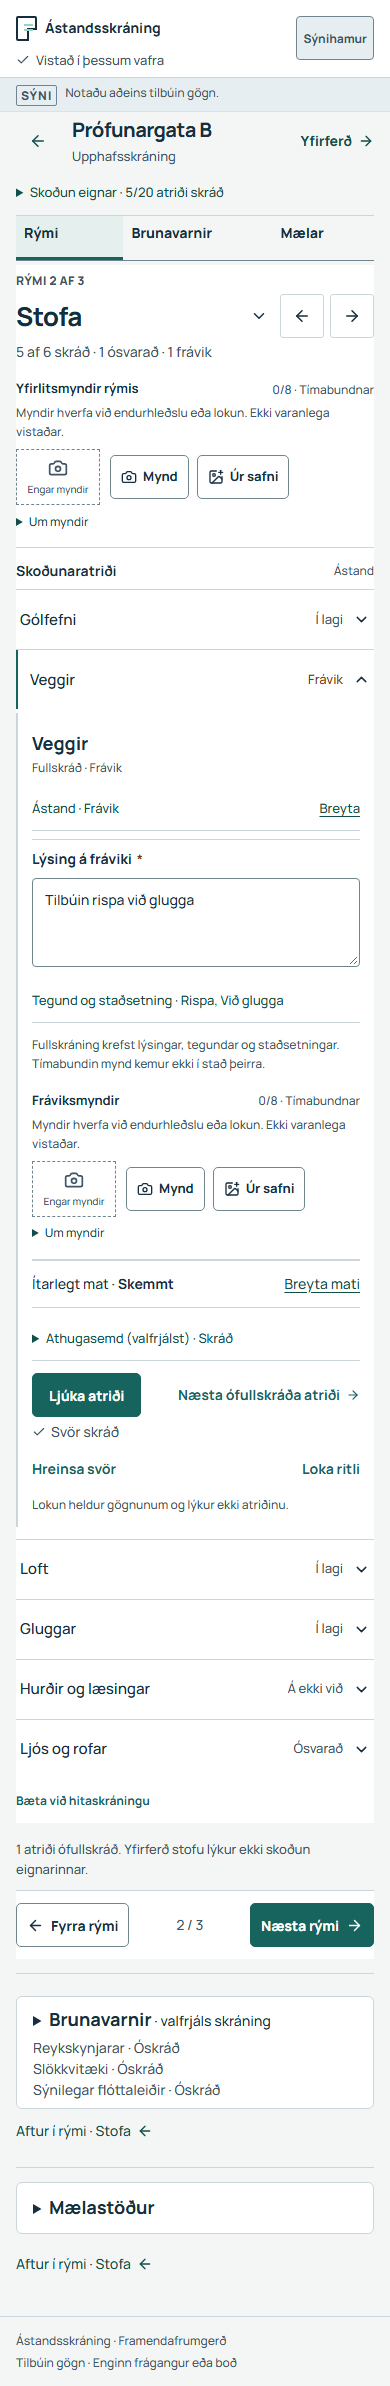
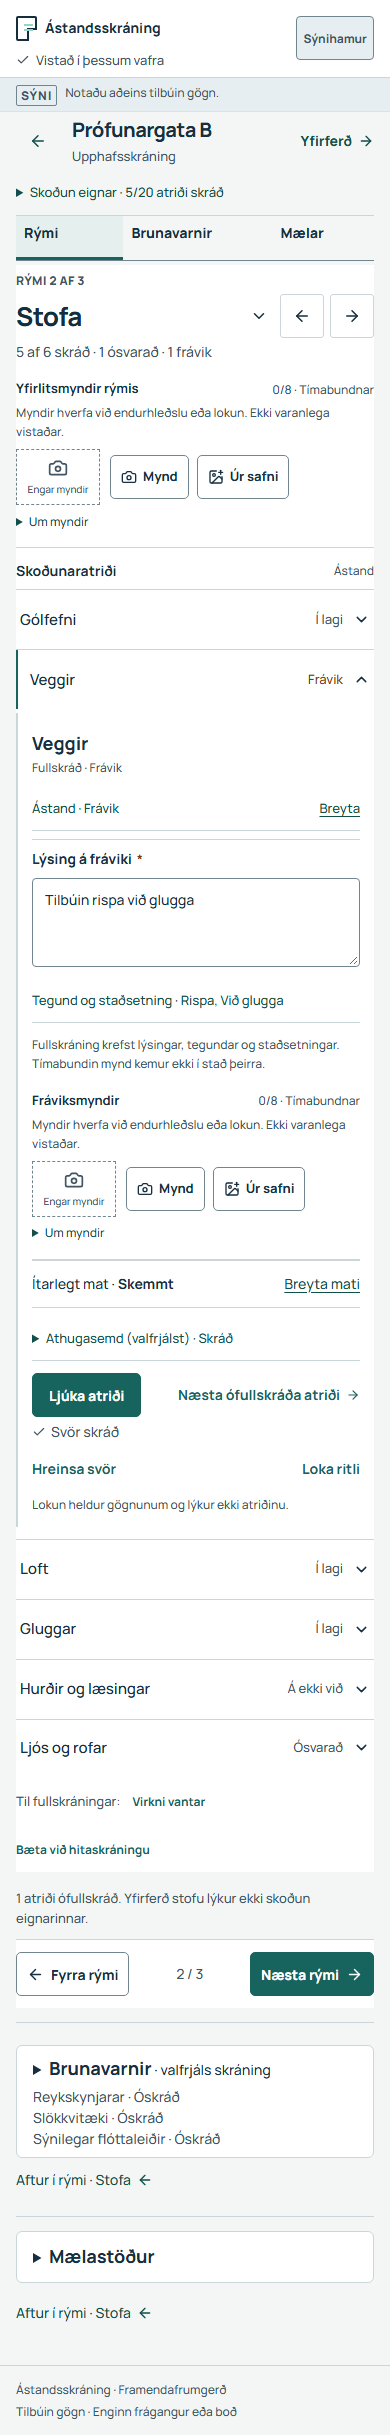
UX4-D1: clarify missing assessments and retained defect prose

diff --git a/tests/ux4-d1-stofa.spec.ts b/tests/ux4-d1-stofa.spec.ts
@@ -53,13 +53,27 @@ test("unanswered stays neutral; a good condition never infers functionality or c
   expected.reports[0].updatedAt = after.reports[0].updatedAt;
   expect(after).toEqual(expected);
   await expect(row(page, "windows").getByRole("button", { name: "Ljúka atriði", exact: true })).toBeDisabled();
-  await row(page, "windows").getByText("Breyta mati", { exact: true }).click();
+  await row(page, "windows").getByRole("button", { name: "Loka ritli", exact: true }).click();
+  await expect(row(page, "windows").locator(".checklist-toggle")).toHaveAttribute("aria-expanded", "false");
+  const missing = row(page, "windows").getByRole("group", { name: "Ósvarað ítarlegt mat", exact: true });
+  await expect(missing.getByRole("button", { name: "Virkni vantar", exact: true })).toBeVisible();
+  await expect(missing.getByRole("button", { name: "Þrif vantar", exact: true })).toBeVisible();
+  await missing.getByRole("button", { name: "Virkni vantar", exact: true }).focus();
+  await page.keyboard.press("Enter");
+  await expect(row(page, "windows").locator('[data-question="functionality"]')).toBeFocused();
+  expect(JSON.parse(await raw(page))).toEqual(after);
   await expect(row(page, "windows").getByRole("radio", { name: "Virkar", exact: true })).not.toBeChecked();
   await expect(row(page, "windows").getByRole("radio", { name: "Hreint", exact: true })).not.toBeChecked();
   await row(page, "windows").getByRole("radio", { name: "Virkar", exact: true }).check();
+  await expect(missing.getByRole("button", { name: "Virkni vantar", exact: true })).toHaveCount(0);
+  const withFunctionality = await raw(page);
+  await missing.getByRole("button", { name: "Þrif vantar", exact: true }).click();
+  await expect(row(page, "windows").locator('[data-question="cleanliness"]')).toBeFocused();
+  expect(await raw(page)).toBe(withFunctionality);
   await row(page, "windows").getByRole("radio", { name: "Hreint", exact: true }).check();
   await row(page, "windows").getByRole("button", { name: "Ljúka atriði", exact: true }).click();
   await expect(row(page, "windows").locator(".checklist-toggle")).toBeFocused();
+  await expect(missing).toHaveCount(0);
   await page.reload();
   const saved = JSON.parse(await raw(page)).reports[0].rooms[1].observations.windows;
   expect(saved).toEqual({ ...EMPTY_OBSERVATION, condition: "good", functionality: "works", cleanliness: "clean" });
@@ -147,6 +161,17 @@ test("changing a legacy defect requires confirmation and retains all supporting 
   await expect(row(page, "walls").getByText("Varðveitt frávikslýsing", { exact: true }).last()).toBeVisible();
   await row(page, "walls").getByRole("button", { name: "Afturkalla breytingu", exact: true }).click();
   expect(JSON.parse(await raw(page)).reports[0].rooms[1].observations.walls.condition).toBe("damaged");
+  await row(page, "walls").getByRole("radio", { name: "Í lagi", exact: true }).click();
+  await dialog.getByRole("button", { name: "Staðfesta breytingu", exact: true }).click();
+  const retained = await raw(page);
+  await row(page, "walls").getByRole("button", { name: "Loka ritli", exact: true }).click();
+  await expect(row(page, "walls").locator(".checklist-toggle")).toContainText("Varðveitt frávikslýsing");
+  await expect(row(page, "walls").locator(".checklist-toggle")).toHaveAttribute("aria-expanded", "false");
+  await page.getByRole("combobox", { name: "Velja rými", exact: true }).selectOption("checklist-entry");
+  await page.getByRole("combobox", { name: "Velja rými", exact: true }).selectOption("checklist-living");
+  await page.reload();
+  await expect(row(page, "walls").locator(".checklist-toggle")).toContainText("Varðveitt frávikslýsing");
+  expect(await raw(page)).toBe(retained);
 });
 
 test("failed persistence keeps the active editor and draft; retry persists without data loss", async ({ page }) => {
@@ -291,4 +316,33 @@ test("a fully recorded last-room Stofa leads to review without completing the pr
   await expect(page.getByRole("heading", { name: "Yfirferð skráningar", exact: true })).toBeVisible();
   expect(await raw(page)).toBe(before);
   expect(JSON.parse(await raw(page)).reports[0].sampleReviewed).not.toBe(true);
+});
+
+test("targeted refinement: detailed-answer prompts respect required fields and N/A; retained legacy prose stays visible", async ({ page }) => {
+  const before = await seed(page, true, report => {
+    const observations = report.rooms[1].observations;
+    delete observations.floor.cleanliness;
+    delete observations.windows.functionality;
+    observations.walls.condition = "good";
+  });
+  for (const id of ["ceiling", "doors", "walls"]) {
+    await expect(row(page, id).getByRole("group", { name: "Ósvarað ítarlegt mat", exact: true })).toHaveCount(0);
+  }
+  await expect(row(page, "floor").getByRole("button", { name: "Þrif vantar", exact: true })).toBeVisible();
+  await expect(row(page, "floor").getByRole("button", { name: "Virkni vantar", exact: true })).toHaveCount(0);
+  await expect(row(page, "windows").getByRole("button", { name: "Virkni vantar", exact: true })).toBeVisible();
+  await expect(row(page, "windows").getByRole("button", { name: "Þrif vantar", exact: true })).toHaveCount(0);
+  await expect(row(page, "walls").locator(".checklist-toggle")).toContainText("Varðveitt frávikslýsing");
+  await expect(row(page, "walls").locator(".checklist-toggle")).toHaveAttribute("aria-expanded", "false");
+  await row(page, "floor").getByRole("button", { name: "Þrif vantar", exact: true }).click();
+  await expect(row(page, "floor").locator('[data-question="cleanliness"]')).toBeFocused();
+  await expect(row(page, "floor").getByRole("radio", { checked: true, name: "Hreint", exact: true })).toHaveCount(0);
+  expect(await raw(page)).toBe(before);
+  expect(await page.evaluate(() => document.documentElement.scrollWidth <= innerWidth)).toBe(true);
+  const audit = await new AxeBuilder({ page }).include(".inspection-page").withTags(["wcag2a", "wcag2aa", "wcag21aa", "wcag22aa"]).analyze();
+  expect(audit.violations).toEqual([]);
+  if (page.viewportSize()!.width !== 320) {
+    await page.evaluate(() => window.scrollTo(0, 0));
+    await page.screenshot({ path: `docs/qa/ux4-d1/refinement-${page.viewportSize()!.width}.png`, fullPage: true });
+  }
 });

diff --git a/src/components/observation-editor.tsx b/src/components/observation-editor.tsx
@@ -9,7 +9,7 @@ import {
   TriangleAlert,
 } from "lucide-react";
 import { useEffect, useId, useRef, useState, type ReactNode } from "react";
-import { itemProgress, navigationTargetId, photoTargetId } from "@/lib/inspection-navigation";
+import { itemProgress, missingAnswers, navigationTargetId, photoTargetId } from "@/lib/inspection-navigation";
 import {
   CONDITIONS,
   FUNCTIONALITIES,
@@ -160,6 +160,9 @@ export function ObservationEditor({
   const deviation = damage || (o.condition !== "na" && o.cleanliness === "dirty");
   const simpleCondition = o.condition === "damaged" || o.condition === "defect" ? "Frávik" : o.condition ? is.conditions[o.condition] : "Ósvarað";
   const progress = itemProgress(item, o);
+  const missingDetailed = photoFirst ? missingAnswers(item, o).filter(
+    (answer): answer is { key: "functionality" | "cleanliness"; label: string } => answer.key === "functionality" || answer.key === "cleanliness",
+  ) : [];
   const status = progress === "unanswered" ? "Ósvarað" : !complete ? "Ófullskráð" : "Fullskráð";
   const flags = [
     deviation && "Frávik",
@@ -206,6 +209,11 @@ export function ObservationEditor({
     const group = panelRef.current?.querySelector<HTMLElement>(
       `[data-question="${focusRequest.question}"]`,
     );
+    if (photoFirst) {
+      group?.focus({ preventScroll: true });
+      group?.scrollIntoView({ block: "nearest" });
+      return;
+    }
     const target =
       group?.querySelector<HTMLInputElement>("input:checked") ??
       group?.querySelector<HTMLInputElement>(
@@ -214,7 +222,7 @@ export function ObservationEditor({
     target?.focus({ preventScroll: true });
     // Radios are visually hidden; scroll their group above the room footer.
     group?.scrollIntoView({ block: "nearest" });
-  }, [open, focusRequest]);
+  }, [open, focusRequest, photoFirst]);
   const chooseGood = () => {
     onActivate();
     change("condition", "good");
@@ -343,7 +351,9 @@ export function ObservationEditor({
               className={styles.rowStatus}
               data-attention={!!o.condition && (!complete || attention || deviation)}
             >
-              {photoFirst ? `${simpleCondition}${deviation && simpleCondition !== "Frávik" ? " · Frávik" : ""}${o.condition && !complete ? " · Ófullskráð" : complete && attention && o.condition !== "uninspected" ? " · Takmörkun" : ""}` : <>{o.condition ? `${is.conditions[o.condition]} · ` : ""}
+              {photoFirst ? <>{`${simpleCondition}${deviation && simpleCondition !== "Frávik" ? " · Frávik" : ""}${o.condition && !complete ? " · Ófullskráð" : complete && attention && o.condition !== "uninspected" ? " · Takmörkun" : ""}`}
+                {hasRetainedDefect(o) ? <span className={stofa.retainedIndicator}>Varðveitt frávikslýsing</span> : null}
+              </> : <>{o.condition ? `${is.conditions[o.condition]} · ` : ""}
               {status}{flags.length ? ` · ${flags.join(" · ")}` : ""}
               {state.photos[photoKey]?.length ? ` · ${state.photos[photoKey].length} ${state.photos[photoKey].length === 1 ? "mynd" : "myndir"}` : ""}
               {o.note.trim() ? " · Athugasemd" : ""}
@@ -368,6 +378,14 @@ export function ObservationEditor({
           <Plus size={16} aria-hidden="true" />
           Ástand í lagi
         </button>
+      </div> : null}
+      {missingDetailed.length ? <div className={stofa.missingAssessments} role="group" aria-label="Ósvarað ítarlegt mat">
+        <span>Til fullskráningar:</span>
+        {missingDetailed.map(answer => <button type="button" key={answer.key} className="text-button" aria-controls={panelId} onClick={() => {
+          setShowAssessment(true);
+          setFocusRequest({ question: answer.key });
+          onOpen();
+        }}>{answer.label}</button>)}
       </div> : null}
       </div>
       <div

diff --git a/src/components/stofa-inspection.module.css b/src/components/stofa-inspection.module.css
@@ -67,6 +67,9 @@
 .validationNote { margin: 0; font-size: 12px; }
 .notes { border-bottom: 1px solid var(--line); }
 .completion { color: var(--muted); font-size: 13px; margin-top: 16px; }
+.retainedIndicator { display: block; font-size: 12px; color: var(--muted); }
+.missingAssessments { grid-column: 1 / -1; display: flex; flex-wrap: wrap; align-items: center; gap: 0 12px; width: 100%; font-size: 13px; color: var(--muted); }
+.missingAssessments .text-button { min-height: 44px; font-size: 13px; text-decoration: underline; text-underline-offset: 3px; }
 .page[data-stofa-inspection] [data-inspection-sections] { position: static; min-height: 44px; }
 .page[data-stofa-inspection] [data-inspection-sections] a { min-height: 44px; padding-block: 6px; }
 .page[data-stofa-inspection] [data-inspection-sections] a span { display: none; }

diff --git a/docs/qa/ux4-d1/README.md b/docs/qa/ux4-d1/README.md
@@ -1,6 +1,6 @@
 # UX4-D1 visual and focused QA evidence
 
-Captured 4 November 2026 in Chromium. All records are synthetic. The `synthetic-wall-damage.png` fixture shown in the additional photo captures is illustrative test media, not evidence of an actual property.
+Baseline captured 4 November 2026 in Chromium; after captures refreshed 5 November for the targeted refinement. All records are synthetic. The `synthetic-wall-damage.png` fixture shown in the additional photo captures is illustrative test media, not evidence of an actual property.
 
 The before captures were taken from approved main `ad23255c48606721eefdda92e1c34aedf9030424` before application edits. Before/after pairs use the same synthetic report and open Veggir defect editor, with no photos. The after captures use the production build.
 
@@ -12,7 +12,17 @@ The before captures were taken from approved main `ad23255c48606721eefdda92e1c34
 
 Visually reviewed the 390/1440 layouts and the 320 px reflow. No horizontal overflow or clipped controls in the checked states. Temporary storage limits are visible beside both room and item media. Additional legacy fields and retained application navigation account for differences from the standalone design prototype.
 
-## Results
+The targeted refinement shows named missing-answer actions and a retained legacy defect indicator, with direct focus into the required detailed group: [390 px](refinement-390.png) · [1440 px](refinement-1440.png). These actions change presentation and focus only; they do not infer or save answers.
+
+## Targeted refinement results, 5 November 2026
+
+- **42 focused Stofa cases passed**, without retries, against the production build at 1440, 390 and 320 px. No broader regression suite was run for this refinement.
+- Required missing answers are named in collapsed rows, and keyboard/pointer actions reveal and focus the correct detailed group without altering the stored document or choosing answers. Prompts disappear when answered and respect existing N/A/required-field rules.
+- Retained legacy prose remains visibly indicated after confirmed changes, undo/reconfirmation, room navigation and reload; canonical data is preserved.
+- Existing Stofa BUG-01, failed-save retry, Web Locks, conflict and review-navigation cases passed. Axe found zero violations in the additional refinement views, with no horizontal overflow.
+- The production build (including TypeScript), scoped ESLint on the changed component/test and `git diff --check` passed. Existing validation and photo limitations are unchanged.
+
+## Initial implementation results, 4 November 2026
 
 - UX4-D1: **39 passed** across 1440, 390 and 320 px (13 focused cases at each width), including last-room navigation.
 - Existing shared-editor/navigation regression: **39 passed** (desktop), including all BUG-01 cases and the existing focused BUG-02 persistence scenario.

diff --git a/docs/UX4_D1_STOFA.md b/docs/UX4_D1_STOFA.md
@@ -11,6 +11,8 @@ Only rooms with the existing `living` (Stofa) type receive the new interface. Ot
 - Room overview photos appear before the checklist. Camera and gallery have separate labelled controls; item photos retain the existing report/room/item associations, limits, validation, enlargement and removal confirmation.
 - The simple choices are Í lagi / Frávik / Á ekki við / Ekki skoðað. No answer is preselected. Choosing Í lagi changes **condition only**.
 - Existing six-value condition, functionality and cleanliness assessments remain editable in **Ítarlegt mat**. Legacy `damaged` and `wear` values are retained. Review correction links reveal a required detailed answer and restore review context.
+- Missing required functionality/cleanliness answers are named in the Stofa row, even while collapsed. **Virkni vantar** / **Þrif vantar** open and focus the corresponding detailed answer group without selecting or writing an answer. These prompts follow existing validation, including the N/A exception.
+- Inactive legacy defect prose is explicitly marked **Varðveitt frávikslýsing** in the collapsed Stofa row, including after a confirmed assessment change, room navigation and reload. The existing retained-details disclosure remains available inside the editor.
 - One short defect description is prominent; existing type/location and optional notes remain accessible. Typing through invalid/valid states keeps the active editor mounted.
 - **Loka ritli** collapses presentation and restores focus, preserving the record and photos. **Ljúka atriði** is available only when existing validation is complete and the save state is confirmed. It collapses the editor; it adds no new persisted completion flag. Room progress still follows the existing model. Previous/next/review navigation remains available for drafts, with unconfirmed saves identified.
 
